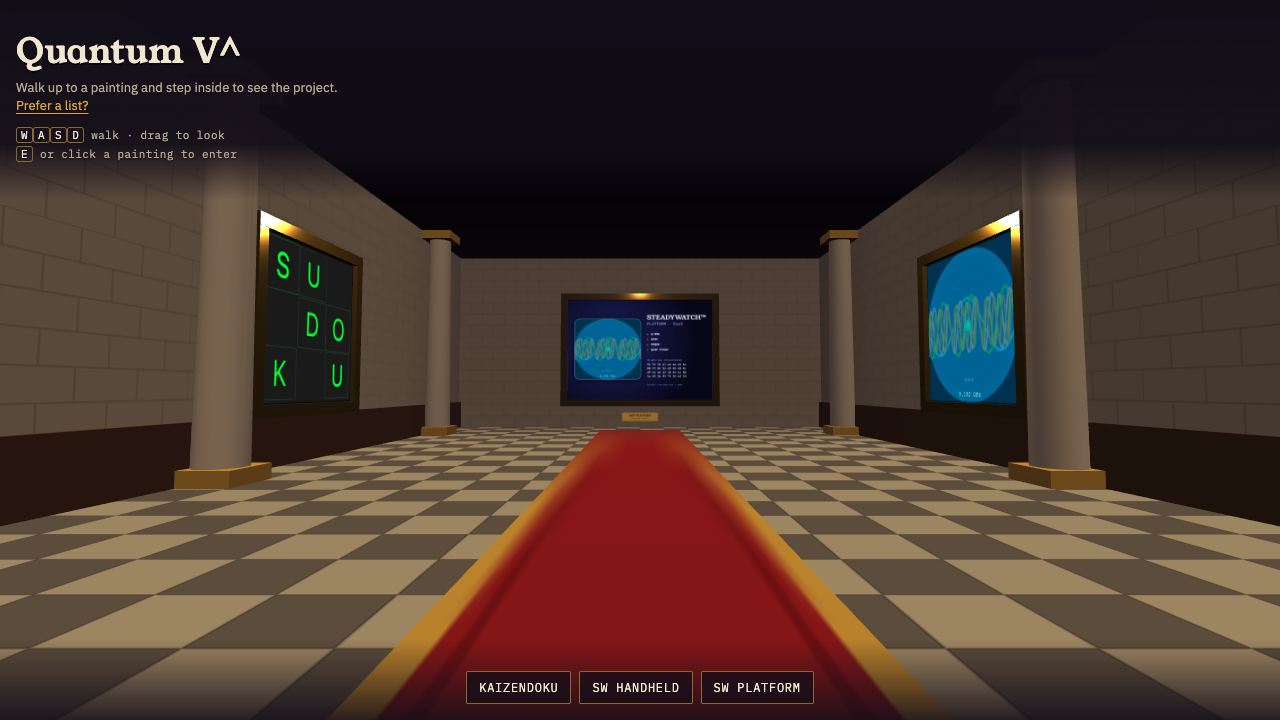
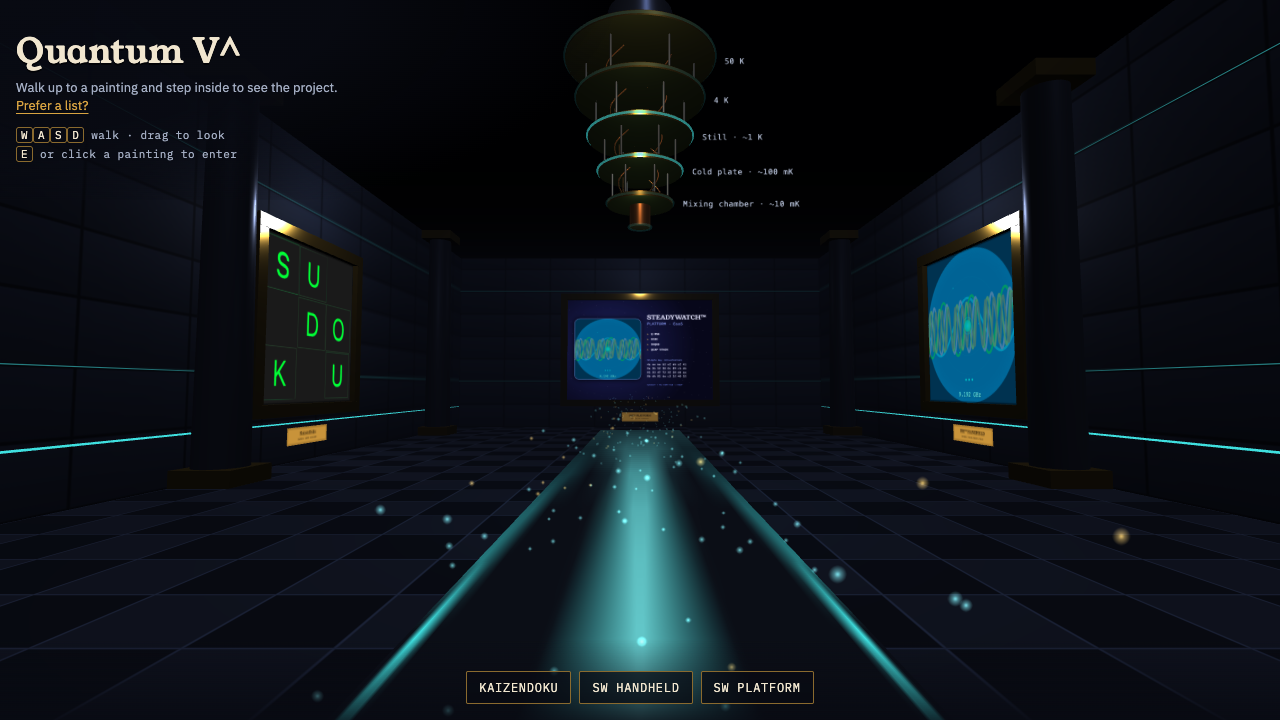
Re-skin the gallery as a quantum lab
Keeps the castle layout and the paintings, swaps the materials: dark
slate walls with lit teal seams, polished dark checkered floor, a teal
photon runner with drifting particles, and a gold dilution-refrigerator
chandelier labelled with typical stage temperatures (50 K to ~10 mK).
README preview and its alt text updated to match.

diff --git a/index.html b/index.html
@@ -16,12 +16,12 @@
 <style>
 /* Layout: full-bleed WebGL hall; HUD pinned to edges; project "inside the painting" opens as a full overlay */
 :root {
-  --night: #120d18;      /* hall shadow / page ground */
-  --stone: #2a2230;      /* panel surface */
+  --night: #080a12;      /* cleanroom dark / page ground */
+  --stone: #141826;      /* panel surface */
   --gilt: #d9a441;       /* frame gold, the one accent */
   --gilt-dim: #8a6a2e;
   --parchment: #f1e6cf;  /* text on dark */
-  --muted: #b7a98f;
+  --muted: #a3adc2;
   --display: "Young Serif", Georgia, "Times New Roman", serif;
   --body: "IBM Plex Sans", system-ui, -apple-system, sans-serif;
   --mono: "IBM Plex Mono", ui-monospace, Menlo, monospace;
@@ -41,7 +41,7 @@ body { background: var(--night); color: var(--parchment); font-family: var(--bod
   padding-right: max(16px, env(safe-area-inset-right, 0px));
   padding-bottom: 36px;
   pointer-events: none;
-  background: linear-gradient(to bottom, var(--night) 0%, color-mix(in srgb, var(--night) 92%, transparent) 72%, transparent 100%);
+  background: radial-gradient(620px 240px at 0 0, var(--night) 0%, color-mix(in srgb, var(--night) 90%, transparent) 55%, transparent 100%);
   text-shadow: 0 1px 2px var(--night);
 }
 #top > * { pointer-events: none; }
@@ -224,29 +224,49 @@ const DRAW = { kaizendoku: drawLogo, handheld: drawLogo, platform: drawPlatform 
 
 /* ---------- Environment textures ---------- */
 function floorTex() {
+  // polished dark stone, still checkered so it reads as the castle floor
   const c = mk(512, 512), g = c.getContext('2d');
   for (let y = 0; y < 4; y++) for (let x = 0; x < 4; x++) {
-    g.fillStyle = (x + y) % 2 ? '#b9ab92' : '#6e6258'; g.fillRect(x * 128, y * 128, 128, 128);
-    g.strokeStyle = '#00000033'; g.lineWidth = 2; g.strokeRect(x * 128 + 1, y * 128 + 1, 126, 126);
+    g.fillStyle = (x + y) % 2 ? '#20242f' : '#11141c'; g.fillRect(x * 128, y * 128, 128, 128);
+    g.strokeStyle = '#3a4357'; g.lineWidth = 1.5; g.strokeRect(x * 128 + 0.75, y * 128 + 0.75, 126.5, 126.5);
   }
   const t = new THREE.CanvasTexture(c); t.wrapS = t.wrapT = THREE.RepeatWrapping; t.repeat.set(4, 7); t.anisotropy = 8; return t;
 }
-function wallTex() {
+function wallTex(glow) {
+  // dark slate panels; the glow version is black except for a few lit seams (used as emissive map)
   const c = mk(512, 512), g = c.getContext('2d');
-  g.fillStyle = '#d8c8a8'; g.fillRect(0, 0, 512, 512);
-  g.strokeStyle = '#b8a584'; g.lineWidth = 3;
-  for (let row = 0; row < 8; row++) {
-    const y = row * 64; g.beginPath(); g.moveTo(0, y); g.lineTo(512, y); g.stroke();
-    for (let x = (row % 2) * 64; x < 512; x += 128) { g.beginPath(); g.moveTo(x, y); g.lineTo(x, y + 64); g.stroke(); }
+  g.fillStyle = glow ? '#000' : '#181c27'; g.fillRect(0, 0, 512, 512);
+  for (let row = 0; row < 4; row++) for (let col = 0; col < 2; col++) {
+    const x = col * 256, y = row * 128;
+    if (!glow) {
+      const gr = g.createLinearGradient(x, y, x, y + 128); gr.addColorStop(0, '#1e2330'); gr.addColorStop(1, '#151923');
+      g.fillStyle = gr; g.fillRect(x + 3, y + 3, 250, 122);
+      g.strokeStyle = '#0b0d13'; g.lineWidth = 3; g.strokeRect(x + 1.5, y + 1.5, 253, 125);
+    } else if (row === 1) {
+      g.fillStyle = '#3fe0e0'; g.fillRect(x, y + 126, 256, 2);
+    }
   }
   const t = new THREE.CanvasTexture(c); t.wrapS = t.wrapT = THREE.RepeatWrapping; return t;
 }
 function carpetTex() {
+  // the photon path: dark runner with teal edge lines and a soft cyan beam down the middle
   const c = mk(128, 512), g = c.getContext('2d');
-  g.fillStyle = '#9b1c22'; g.fillRect(0, 0, 128, 512);
-  g.fillStyle = '#d9a441'; g.fillRect(0, 0, 10, 512); g.fillRect(118, 0, 10, 512);
-  g.fillStyle = '#7d141a'; g.fillRect(16, 0, 4, 512); g.fillRect(108, 0, 4, 512);
+  g.fillStyle = '#0b0e16'; g.fillRect(0, 0, 128, 512);
+  const beam = g.createLinearGradient(0, 0, 128, 0);
+  beam.addColorStop(0.30, 'rgba(63,224,224,0)'); beam.addColorStop(0.5, 'rgba(120,240,240,0.85)'); beam.addColorStop(0.70, 'rgba(63,224,224,0)');
+  g.fillStyle = beam; g.fillRect(0, 0, 128, 512);
+  g.fillStyle = '#3fe0e0'; g.fillRect(2, 0, 3, 512); g.fillRect(123, 0, 3, 512);
   const t = new THREE.CanvasTexture(c); t.wrapT = THREE.RepeatWrapping; t.repeat.set(1, 6); return t;
+}
+function dotTex() {
+  const c = mk(64, 64), g = c.getContext('2d'), r = g.createRadialGradient(32, 32, 0, 32, 32, 32);
+  r.addColorStop(0, 'rgba(255,255,255,1)'); r.addColorStop(0.35, 'rgba(255,255,255,.5)'); r.addColorStop(1, 'rgba(255,255,255,0)');
+  g.fillStyle = r; g.fillRect(0, 0, 64, 64); return new THREE.CanvasTexture(c);
+}
+function labelTex(text) {
+  const c = mk(640, 64), g = c.getContext('2d');
+  g.fillStyle = '#a3adc2'; g.font = '600 30px "IBM Plex Mono", monospace'; g.textAlign = 'left'; g.textBaseline = 'middle';
+  g.fillText(text, 8, 34); return new THREE.CanvasTexture(c);
 }
 function plaqueTex(p) {
   const c = mk(512, 128), g = c.getContext('2d');
@@ -289,50 +309,121 @@ catch (e) {
 }
 renderer.setPixelRatio(Math.min(devicePixelRatio, 2));
 const scene = new THREE.Scene();
-scene.background = new THREE.Color(0x120d18);
-scene.fog = new THREE.Fog(0x120d18, 16, 40);
+scene.background = new THREE.Color(0x080a12);
+scene.fog = new THREE.Fog(0x080a12, 14, 38);
 const camera = new THREE.PerspectiveCamera(65, 1, 0.05, 100);
 
 const ROOM = { x: 8, zMin: -15, zMax: 12, h: 7.5 };
 const len = ROOM.zMax - ROOM.zMin, midZ = (ROOM.zMax + ROOM.zMin) / 2;
 
-scene.add(new THREE.HemisphereLight(0xfff0d8, 0x2a1830, 0.55));
-const sun = new THREE.DirectionalLight(0xffe2b0, 0.35); sun.position.set(3, 10, 6); scene.add(sun);
+scene.add(new THREE.HemisphereLight(0xb8c8ff, 0x0a0c14, 0.7));
+const key = new THREE.DirectionalLight(0xcfdcff, 0.25); key.position.set(3, 10, 6); scene.add(key);
 
-const floor = new THREE.Mesh(new THREE.PlaneGeometry(ROOM.x * 2, len), new THREE.MeshLambertMaterial({ map: floorTex() }));
+const floor = new THREE.Mesh(new THREE.PlaneGeometry(ROOM.x * 2, len), new THREE.MeshStandardMaterial({ map: floorTex(), roughness: 0.28, metalness: 0.35 }));
 floor.rotation.x = -Math.PI / 2; floor.position.z = midZ; scene.add(floor);
-const carpet = new THREE.Mesh(new THREE.PlaneGeometry(3.2, len - 2), new THREE.MeshLambertMaterial({ map: carpetTex() }));
+const carpet = new THREE.Mesh(new THREE.PlaneGeometry(3.2, len - 2), new THREE.MeshBasicMaterial({ map: carpetTex() }));
 carpet.rotation.x = -Math.PI / 2; carpet.position.set(0, 0.01, midZ + 1); scene.add(carpet);
 
-const wt = wallTex();
+const wt = wallTex(false), wg = wallTex(true);
 function wall(w, h, x, z, ry) {
-  const t = wt.clone(); t.needsUpdate = true; t.repeat.set(w / 4, h / 4);
-  const m = new THREE.Mesh(new THREE.PlaneGeometry(w, h), new THREE.MeshLambertMaterial({ map: t }));
+  const t = wt.clone(), e = wg.clone(); t.needsUpdate = e.needsUpdate = true; t.repeat.set(w / 4, h / 4); e.repeat.copy(t.repeat);
+  const m = new THREE.Mesh(new THREE.PlaneGeometry(w, h), new THREE.MeshStandardMaterial({ map: t, emissiveMap: e, emissive: 0xffffff, emissiveIntensity: 0.55, roughness: 0.7, metalness: 0.1 }));
   m.position.set(x, h / 2, z); m.rotation.y = ry; scene.add(m);
 }
 wall(len, ROOM.h, -ROOM.x, midZ, Math.PI / 2);
 wall(len, ROOM.h, ROOM.x, midZ, -Math.PI / 2);
 wall(ROOM.x * 2, ROOM.h, 0, ROOM.zMin, 0);
 wall(ROOM.x * 2, ROOM.h, 0, ROOM.zMax, Math.PI);
-const ceil = new THREE.Mesh(new THREE.PlaneGeometry(ROOM.x * 2, len), new THREE.MeshLambertMaterial({ color: 0x3a2a3a }));
+const ceil = new THREE.Mesh(new THREE.PlaneGeometry(ROOM.x * 2, len), new THREE.MeshLambertMaterial({ color: 0x0b0d14 }));
 ceil.rotation.x = Math.PI / 2; ceil.position.set(0, ROOM.h, midZ); scene.add(ceil);
 
-// wainscot + columns
-const trimMat = new THREE.MeshLambertMaterial({ color: 0x5a3a2a });
-[[-ROOM.x + 0.06, 0], [ROOM.x - 0.06, 0]].forEach(([x]) => {
-  const b = new THREE.Mesh(new THREE.BoxGeometry(0.12, 1.1, len), trimMat); b.position.set(x, 0.55, midZ); scene.add(b);
-});
-const colMat = new THREE.MeshLambertMaterial({ color: 0xe6d6b8 });
-const capMat = new THREE.MeshLambertMaterial({ color: 0xd9a441 });
-for (const z of [-11, -0.2, 6]) for (const x of [-ROOM.x + 0.5, ROOM.x - 0.5]) {
-  const c = new THREE.Mesh(new THREE.CylinderGeometry(0.38, 0.45, ROOM.h, 20), colMat); c.position.set(x, ROOM.h / 2, z); scene.add(c);
-  const cap = new THREE.Mesh(new THREE.BoxGeometry(1.1, 0.3, 1.1), capMat); cap.position.set(x, ROOM.h - 0.15, z); scene.add(cap);
+// baseboard light line + columns (castle shapes, lab materials)
+const lineMat = new THREE.MeshBasicMaterial({ color: 0x3fe0e0 });
+for (const x of [-ROOM.x + 0.03, ROOM.x - 0.03]) {
+  const b = new THREE.Mesh(new THREE.BoxGeometry(0.04, 0.03, len), lineMat); b.position.set(x, 0.9, midZ); scene.add(b);
+}
+const gold = new THREE.MeshStandardMaterial({ color: 0xd9a441, metalness: 0.85, roughness: 0.3 });
+const colMat = new THREE.MeshStandardMaterial({ color: 0x2b3142, metalness: 0.6, roughness: 0.4 });
+const COLS_Z = [-11, -0.2, 6];
+for (const z of COLS_Z) for (const x of [-ROOM.x + 0.5, ROOM.x - 0.5]) {
+  const c = new THREE.Mesh(new THREE.CylinderGeometry(0.38, 0.45, ROOM.h, 24), colMat); c.position.set(x, ROOM.h / 2, z); scene.add(c);
+  const cap = new THREE.Mesh(new THREE.BoxGeometry(1.1, 0.3, 1.1), gold); cap.position.set(x, ROOM.h - 0.15, z); scene.add(cap);
   const base = cap.clone(); base.position.y = 0.15; scene.add(base);
+}
+
+/* ---------- Cryostat chandelier ----------
+   A dilution refrigerator hangs like a gold chandelier: plates step down in
+   temperature from 50 K at the top to about 10 mK at the mixing chamber,
+   where the quantum chip sits. Stage temperatures are typical, not exact. */
+const cryo = new THREE.Group(); cryo.position.set(0, ROOM.h, 1.5); scene.add(cryo);
+const STAGES = [['50 K', 1.15], ['4 K', 0.98], ['Still · ~1 K', 0.8], ['Cold plate · ~100 mK', 0.64], ['Mixing chamber · ~10 mK', 0.5]];
+const silver = new THREE.MeshStandardMaterial({ color: 0xb9c0cc, metalness: 0.9, roughness: 0.25 });
+const copper = new THREE.MeshStandardMaterial({ color: 0xc8743a, metalness: 0.8, roughness: 0.35 });
+const mount = new THREE.Mesh(new THREE.CylinderGeometry(0.5, 0.6, 0.6, 32), colMat); mount.position.y = -0.3; cryo.add(mount);
+const pulses = [];
+let y = -0.75;
+STAGES.forEach(([label, r], i) => {
+  const plate = new THREE.Mesh(new THREE.CylinderGeometry(r, r, 0.07, 48), gold); plate.position.y = y; cryo.add(plate);
+  const ringM = new THREE.MeshBasicMaterial({ color: 0x3fe0e0, transparent: true, opacity: 0.15 });
+  const ring = new THREE.Mesh(new THREE.TorusGeometry(r + 0.01, 0.018, 8, 64), ringM); ring.rotation.x = Math.PI / 2; ring.position.y = y; cryo.add(ring);
+  pulses.push(ringM);
+  const tag = new THREE.Sprite(new THREE.SpriteMaterial({ map: labelTex(label), transparent: true, depthWrite: false }));
+  tag.scale.set(2.75, 0.275, 1); tag.center.set(0, 0.5); tag.position.set(r + 0.12, y, 0); cryo.add(tag);
+  const next = STAGES[i + 1];
+  if (next) {
+    const gap = 0.62 - i * 0.04, rr = next[1] * 0.85;
+    for (let k = 0; k < 6; k++) {
+      const a = k / 6 * Math.PI * 2;
+      const rod = new THREE.Mesh(new THREE.CylinderGeometry(0.018, 0.018, gap, 6), silver);
+      rod.position.set(Math.cos(a) * rr, y - gap / 2, Math.sin(a) * rr); cryo.add(rod);
+    }
+    for (let k = 0; k < 4; k++) {   // coax lines bending between stages
+      const a = k / 4 * Math.PI * 2 + 0.4, r0 = r * 0.45, r1 = next[1] * 0.4;
+      const curve = new THREE.CatmullRomCurve3([
+        new THREE.Vector3(Math.cos(a) * r0, y, Math.sin(a) * r0),
+        new THREE.Vector3(Math.cos(a + 0.5) * (r0 + 0.12), y - gap / 2, Math.sin(a + 0.5) * (r0 + 0.12)),
+        new THREE.Vector3(Math.cos(a + 0.9) * r1, y - gap, Math.sin(a + 0.9) * r1)]);
+      cryo.add(new THREE.Mesh(new THREE.TubeGeometry(curve, 16, 0.012, 5, false), copper));
+    }
+    y -= gap;
+  }
+});
+const chip = new THREE.Mesh(new THREE.CylinderGeometry(0.16, 0.16, 0.32, 24), copper); chip.position.y = y - 0.2; cryo.add(chip);
+const chipGlowM = new THREE.MeshBasicMaterial({ color: 0x3fe0e0, transparent: true, opacity: 0.5 });
+const chipGlow = new THREE.Mesh(new THREE.TorusGeometry(0.17, 0.02, 8, 32), chipGlowM); chipGlow.rotation.x = Math.PI / 2; chipGlow.position.y = y - 0.36; cryo.add(chipGlow);
+pulses.push(chipGlowM);
+const plateLight = new THREE.PointLight(0xffe2b0, 1.2, 7, 2); plateLight.position.set(0, -1.6, 2.2); cryo.add(plateLight);
+const cryoLight = new THREE.PointLight(0x7fe8ff, 0.8, 8, 2); cryoLight.position.y = y - 0.8; cryo.add(cryoLight);
+
+/* ---------- Photons drifting down the runner ---------- */
+const PHOTONS = 240;
+const pPos = new Float32Array(PHOTONS * 3), pCol = new Float32Array(PHOTONS * 3), pSpd = new Float32Array(PHOTONS);
+const cyanC = new THREE.Color(0x7ff0f0), goldC = new THREE.Color(0xffd36b);
+for (let i = 0; i < PHOTONS; i++) {
+  pPos[i * 3] = (Math.random() - 0.5) * 2.4; pPos[i * 3 + 1] = 0.05 + Math.random() * 1.4; pPos[i * 3 + 2] = ROOM.zMin + 1 + Math.random() * (len - 2);
+  pSpd[i] = 0.8 + Math.random() * 1.6;
+  const c = Math.random() < 0.8 ? cyanC : goldC; pCol[i * 3] = c.r; pCol[i * 3 + 1] = c.g; pCol[i * 3 + 2] = c.b;
+}
+const pGeo = new THREE.BufferGeometry();
+pGeo.setAttribute('position', new THREE.BufferAttribute(pPos, 3)); pGeo.setAttribute('color', new THREE.BufferAttribute(pCol, 3));
+const photons = new THREE.Points(pGeo, new THREE.PointsMaterial({ size: 0.07, map: dotTex(), vertexColors: true, transparent: true, opacity: 0.9, depthWrite: false, blending: THREE.AdditiveBlending }));
+scene.add(photons);
+
+function updateQuantum(dt, t) {
+  const m = reduceMotion ? 0.15 : 1;
+  // a pulse of cold travels down the stages, top to bottom
+  pulses.forEach((pm, i) => { const ph = (t * 0.7 - i * 0.22) % 1.6; pm.opacity = 0.12 + 0.75 * Math.max(0, 1 - Math.abs(ph - 0.3) * 4); });
+  for (let i = 0; i < PHOTONS; i++) {
+    let z = pPos[i * 3 + 2] - pSpd[i] * dt * m;
+    if (z < ROOM.zMin + 1) z = ROOM.zMax - 1;
+    pPos[i * 3 + 2] = z;
+  }
+  pGeo.attributes.position.needsUpdate = true;
 }
 
 /* ---------- Paintings ---------- */
 const paintings = [];
-const frameMat = new THREE.MeshStandardMaterial({ color: 0xd9a441, metalness: 0.7, roughness: 0.35 });
+const frameMat = gold;
 function buildPaintings() {
   PROJECTS.forEach(p => {
     const art = p.id === 'platform' ? mk() : mk(1024, 1024); DRAW[p.id](art, LOGOS[p.logo]);
@@ -350,7 +441,7 @@ function buildPaintings() {
     });
     const plaque = new THREE.Mesh(new THREE.PlaneGeometry(1.6, 0.4), new THREE.MeshBasicMaterial({ map: plaqueTex(p) }));
     plaque.position.set(0, -h / 2 - 0.75, 0.03); group.add(plaque);
-    const light = new THREE.PointLight(0xffd9a0, 0.9, 9, 2);
+    const light = new THREE.PointLight(0xe6eeff, 1.1, 9, 2);
     light.position.set(0, h / 2 + 0.8, 1.6); group.add(light);
     const normal = new THREE.Vector3(0, 0, 1).applyAxisAngle(new THREE.Vector3(0, 1, 0), p.rotY);
     const center = new THREE.Vector3(...p.pos);
@@ -553,7 +644,7 @@ function tick() {
     if (near !== pt && mode !== 'entering') pt.uniforms.uHit.value.lerp(new THREE.Vector2(.5, .5), dt);
   }
 
-  if (mode !== 'inside') renderer.render(scene, camera);
+  if (mode !== 'inside') { updateQuantum(dt, t); renderer.render(scene, camera); }
   requestAnimationFrame(tick);
 }
 

diff --git a/README.md b/README.md
@@ -1,5 +1,5 @@
 <p align="center">
-  <a href="https://infin-8.github.io/Projects/"><img src="assets/gallery-preview.png" width="800" alt="The Infin-8 Gallery: a castle hall with the KaizenDoku, STEADYWATCH Handheld and STEADYWATCH Platform paintings on the walls"></a>
+  <a href="https://infin-8.github.io/Projects/"><img src="assets/gallery-preview.png" width="800" alt="The Quantum V^ gallery: a dark hall under a gold cryostat chandelier, with the KaizenDoku, STEADYWATCH Handheld and STEADYWATCH Platform paintings on the walls"></a>
 </p>
 
 <p align="center">
